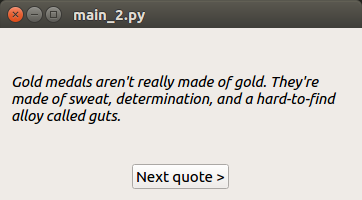
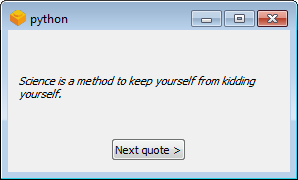
Improve screenshots in README

diff --git a/README.md b/README.md
@@ -2,7 +2,7 @@
 This tutorial shows how you can use fbs to create a simple Python GUI and an
 associated installer:
 
-![Screenshot of sample app on Windows](screenshots/app-windows.png) ![Windows installer](screenshots/installer-windows.png)
+![Screenshot of sample app on Windows](screenshots/quote-app.png) ![Windows installer](screenshots/installer-windows.png)
  
 You can follow this tutorial on Windows, Mac or Linux. The only prerequisite is
 Python, [version 3.5](https://www.python.org/downloads/release/python-354/).
@@ -128,7 +128,7 @@ folder (also shown in the volume).
 
 ## A more complicated example
 We will now create a more interesting example: An app that displays famous
-quotes from the internet. Here's what it looks like (on Ubuntu):
+quotes from the internet. Here's what it looks like on Windows:
 
 ![Quote app](screenshots/quote-app.png)
 
